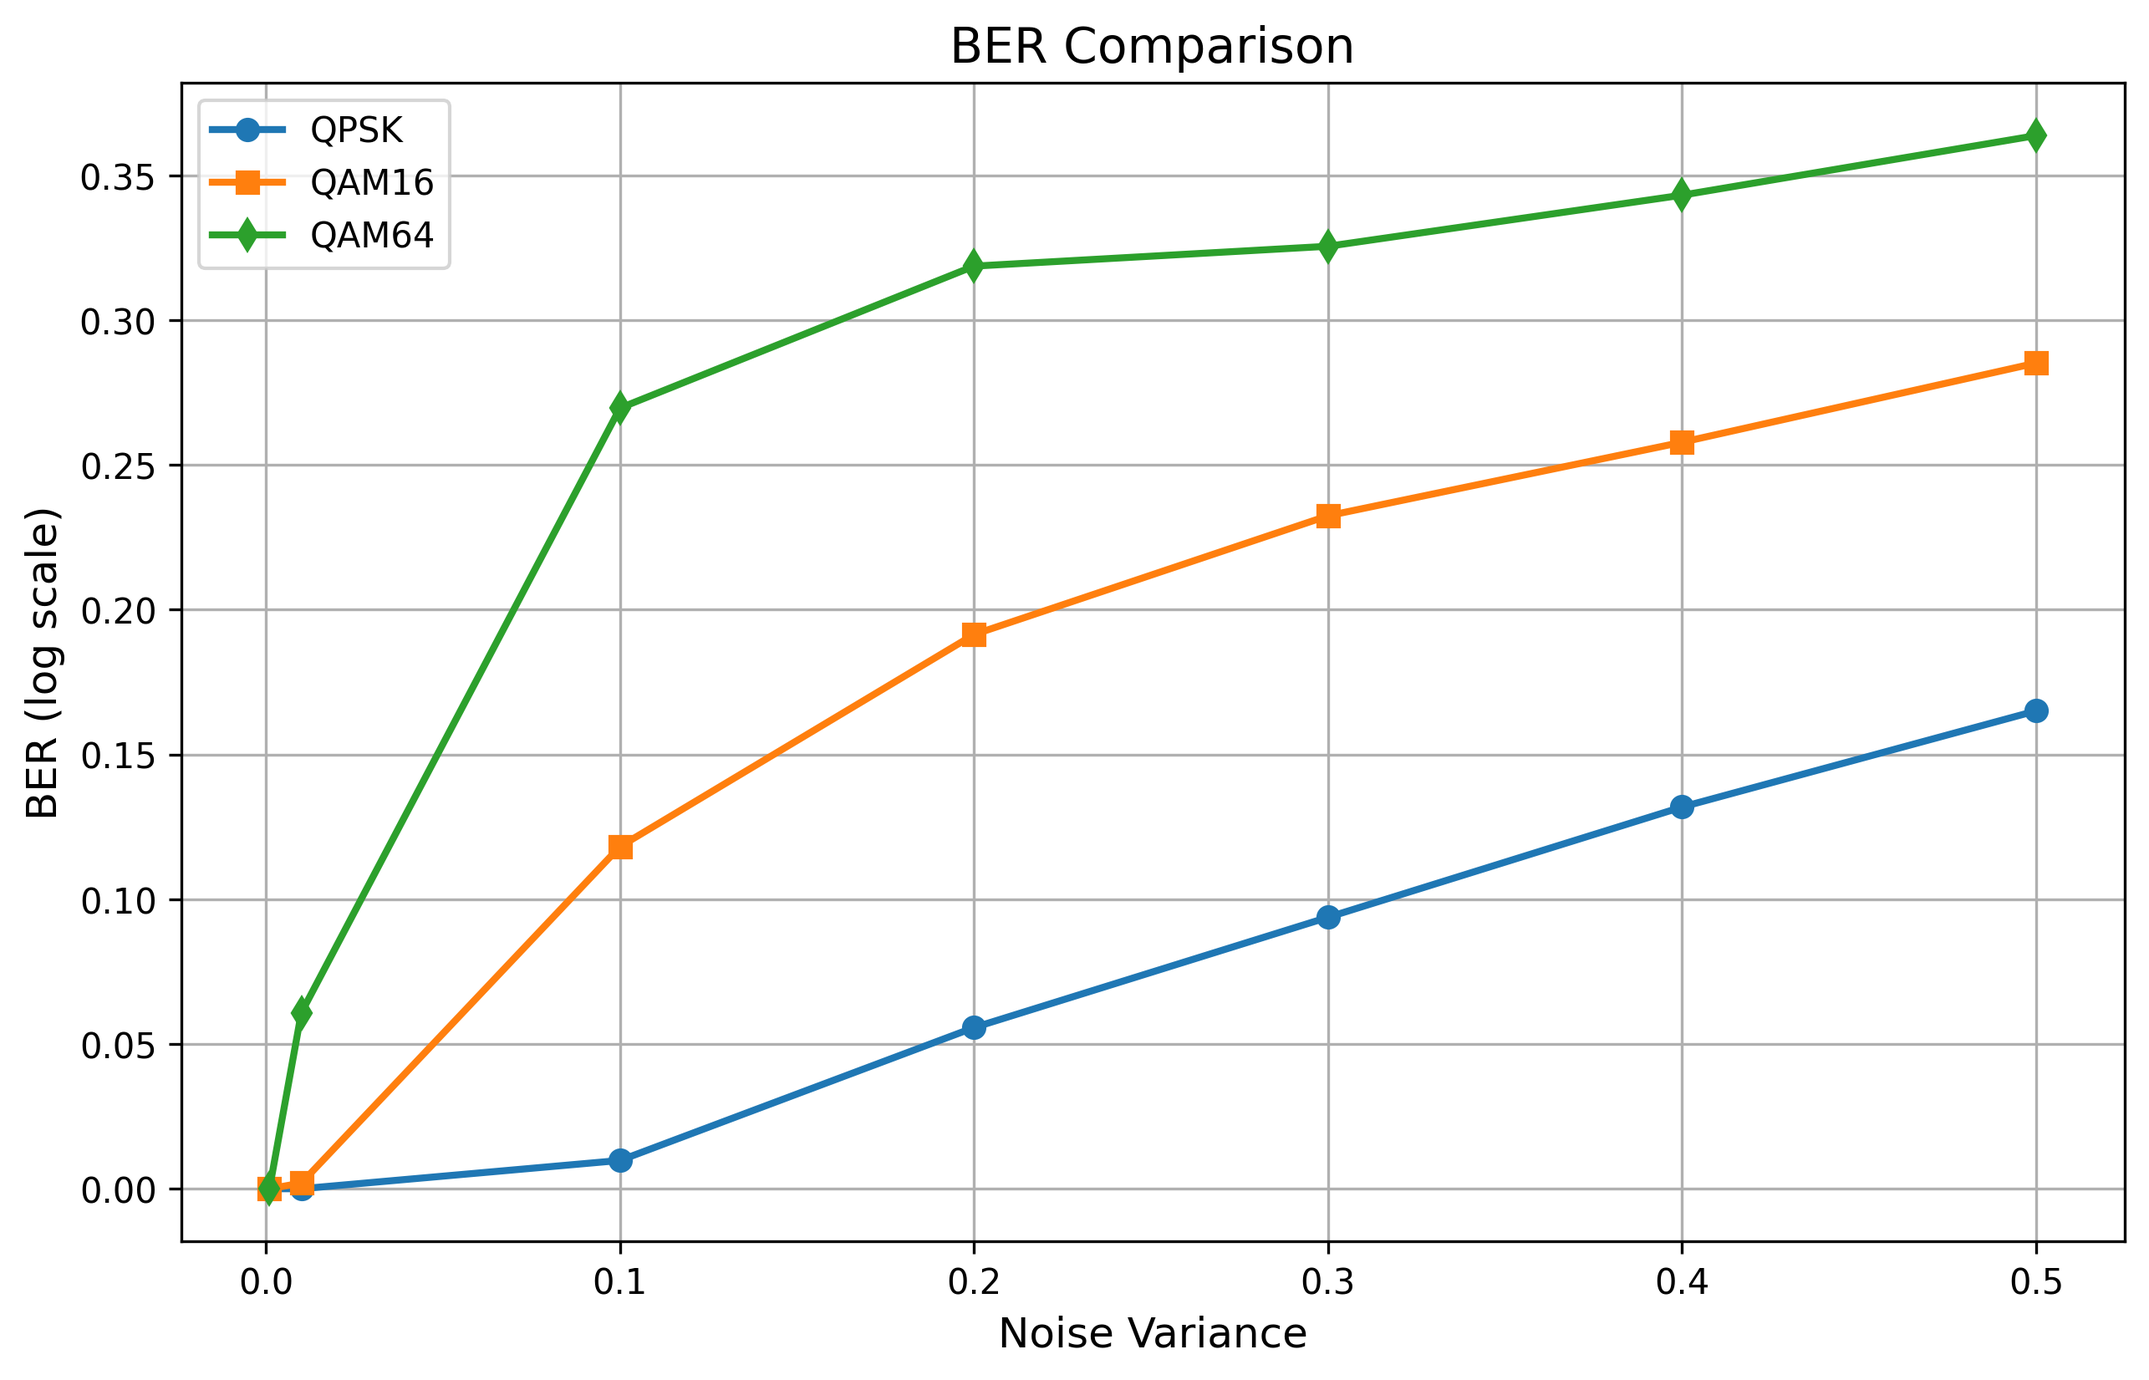
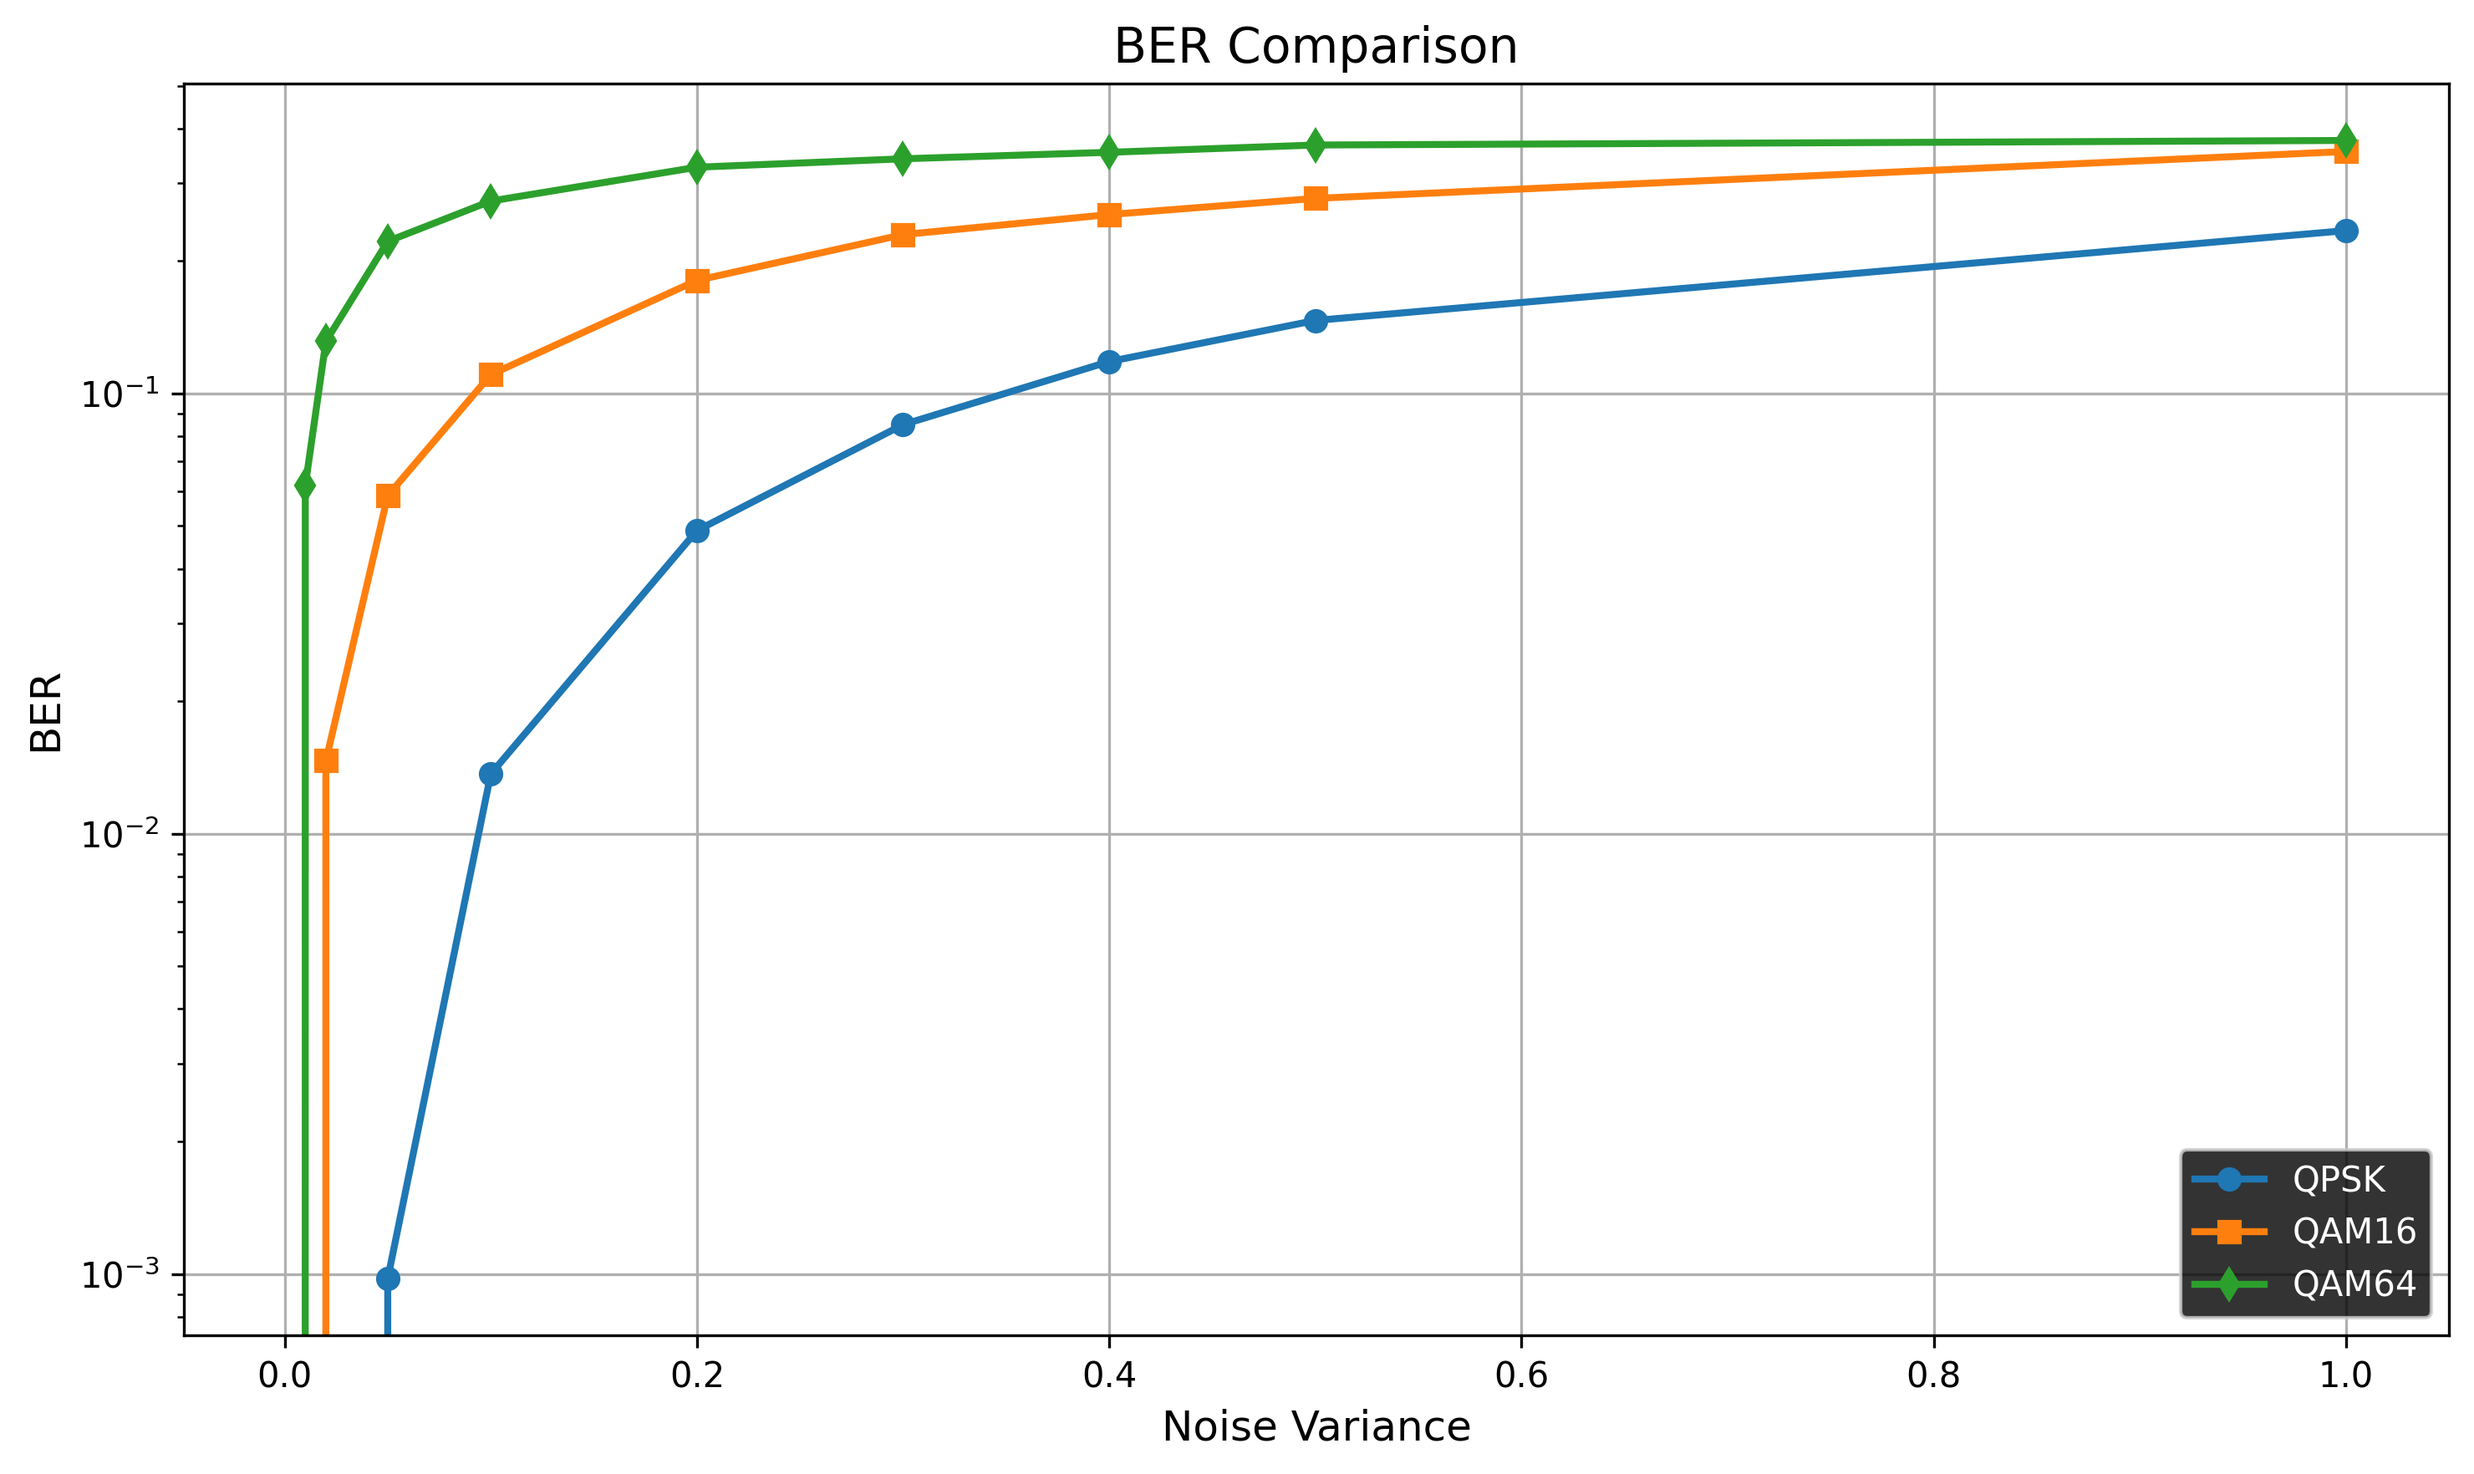
L1_v1: add log scale and more noise dist variances

diff --git a/Task_1/plot/plot.py b/Task_1/plot/plot.py
@@ -6,15 +6,17 @@ qam16 = np.loadtxt('../../build/QAM16results.txt')
 qam64 = np.loadtxt('../../build/QAM64results.txt')
 
 plt.figure(figsize=(10, 6))
-plt.plot(qpsk[:,0], qpsk[:,1], 'o-', label='QPSK', linewidth=2)
-plt.plot(qam16[:,0], qam16[:,1], 's-', label='QAM16', linewidth=2)
-plt.plot(qam64[:,0], qam64[:,1], 'd-', label='QAM64', linewidth=2)
+plt.semilogy(qpsk[:,0], qpsk[:,1], 'o-', label='QPSK', linewidth=2)
+plt.semilogy(qam16[:,0], qam16[:,1], 's-', label='QAM16', linewidth=2)
+plt.semilogy(qam64[:,0], qam64[:,1], 'd-', label='QAM64', linewidth=2)
 
 plt.title('BER Comparison', fontsize=14)
 plt.xlabel('Noise Variance', fontsize=12)
 plt.ylabel('BER', fontsize=12)
+plt.style.use('dark_background')
 plt.grid(True)
 plt.legend(fontsize=10)
+plt.tight_layout()
 
 plt.savefig('ber.png', dpi=300, bbox_inches='tight')
 plt.show()

diff --git a/Task_1/tests/task_4_test.cpp b/Task_1/tests/task_4_test.cpp
@@ -74,7 +74,7 @@ void run_test_sequence(QAM::ModulationMode mode, size_t num_bits,
 
 int main() {
     const size_t num_bits = 1024;
-    const std::vector<double> noise_variances = {0.001, 0.01, 0.1, 0.2, 0.3, 0.4, 0.5};
+    const std::vector<double> noise_variances = {0.001, 0.01, 0.02, 0.05, 0.1, 0.2, 0.3, 0.4, 0.5, 1.0};
     
     run_test_sequence(QAM::QPSK, num_bits, noise_variances);
     run_test_sequence(QAM::QAM16, num_bits, noise_variances);
